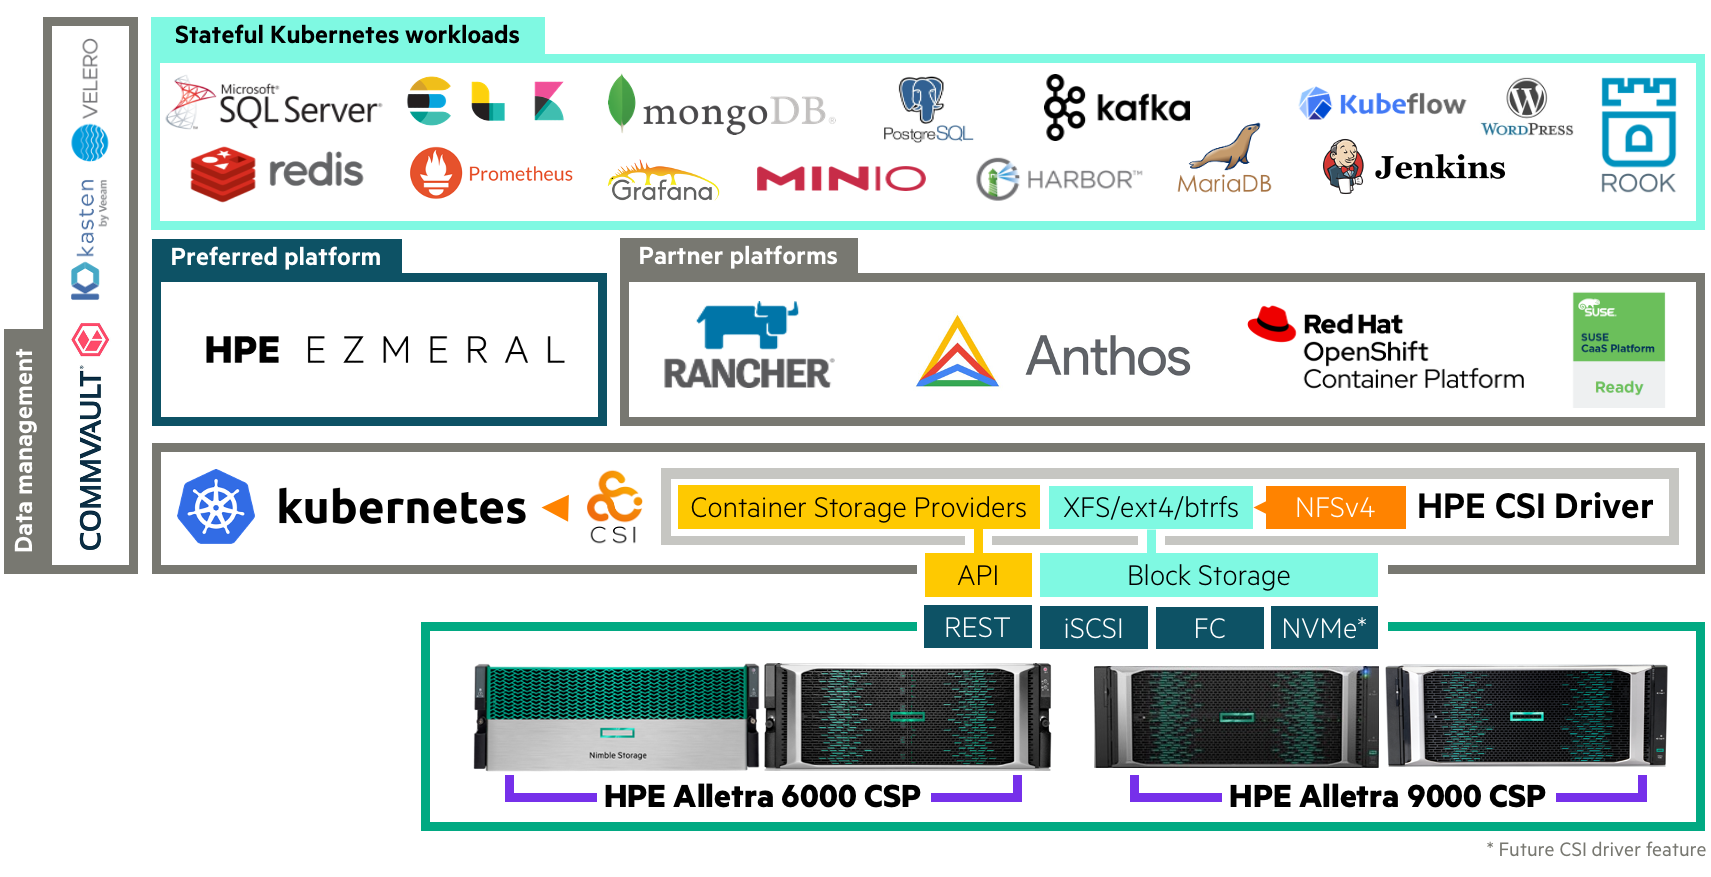
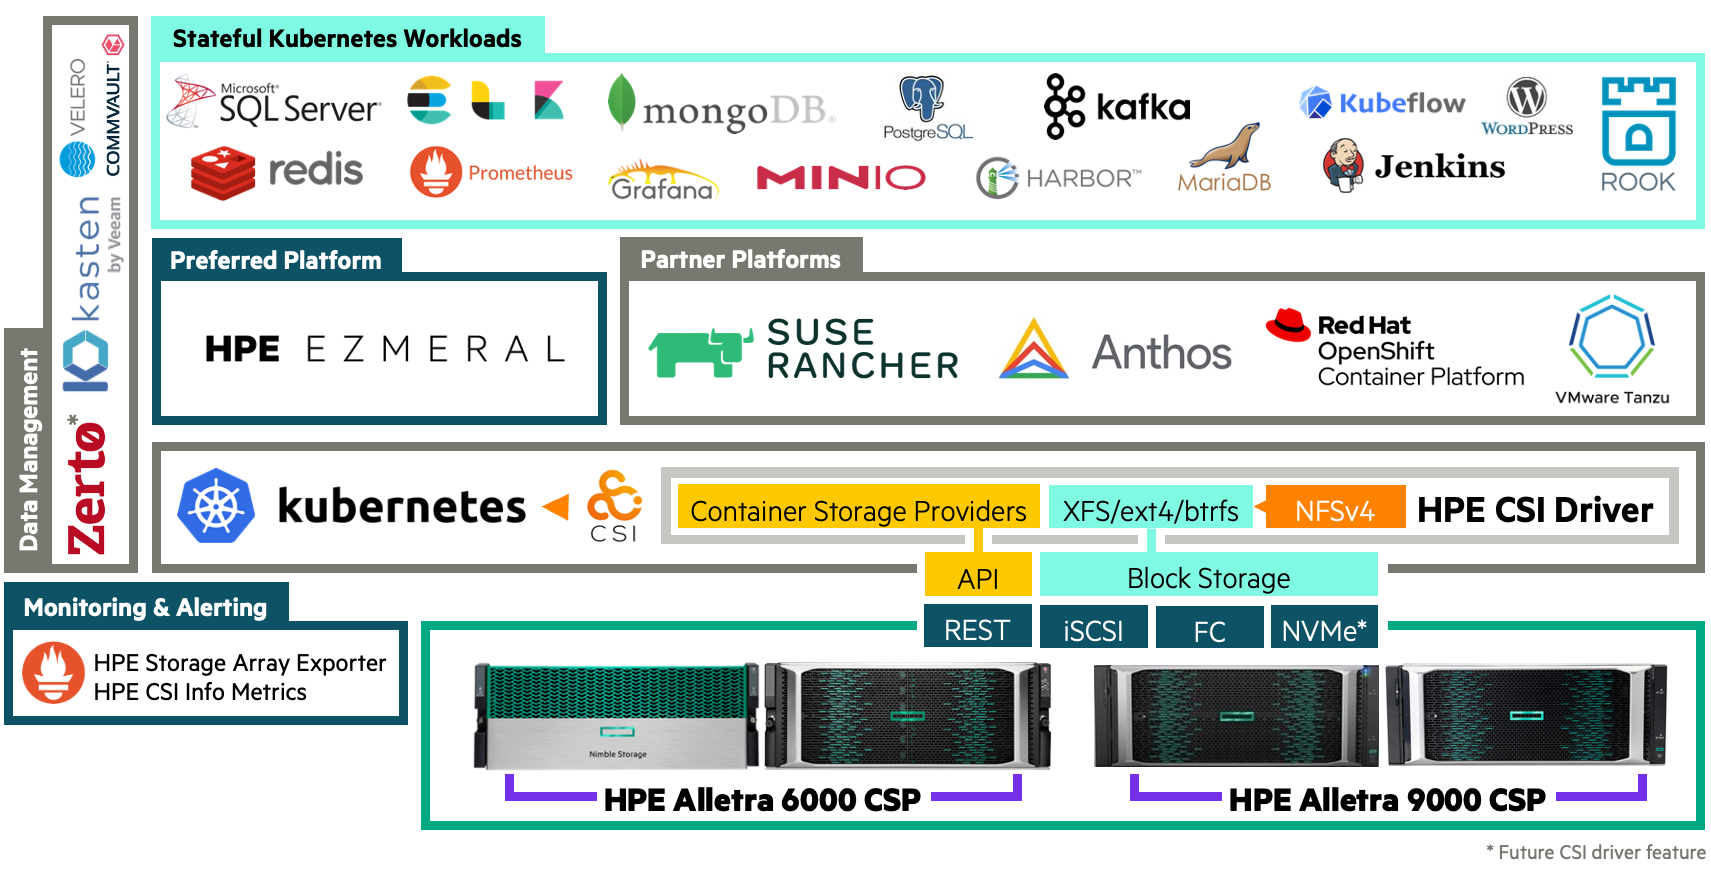
Minor updates

diff --git a/docs/csi_driver/using.md b/docs/csi_driver/using.md
@@ -30,7 +30,7 @@ The NFS Server Provisioner is not enabled by the default `StorageClass` and need
 
 ## Enabling CSI Snapshots
 
-Support for `VolumeSnapshotClasses` and `VolumeSnapshots` is available from Kubernetes 1.17+. The snapshot beta CRDs and the common snapshot controller needs to be installed manually. As per Kubernetes SIG Storage, these should not be installed as part of a CSI driver and should be deployed by the Kubernetes cluster vendor or user.
+Support for `VolumeSnapshotClasses` and `VolumeSnapshots` is available from Kubernetes 1.17+. The snapshot CRDs and the common snapshot controller needs to be installed manually. As per Kubernetes TAG Storage, these should not be installed as part of a CSI driver and should be deployed by the Kubernetes cluster vendor or user.
 
 Ensure the snapshot CRDs and common snapshot controller hasn't been installed already.
 
@@ -427,7 +427,26 @@ CSI introduces snapshots as native objects in Kubernetes that allows end-users t
 
 Start by creating a `VolumeSnapshotClass` referencing the `Secret` and defining additional snapshot parameters.
 
-Kubernetes 1.17+ (CSI snapshots in beta)
+Kubernetes 1.20+ (CSI snapshots GA)
+
+```markdown fct_label="HPE CSI Driver v2.0.0+"
+apiVersion: snapshot.storage.k8s.io/v1
+kind: VolumeSnapshotClass
+metadata:
+  name: hpe-snapshot
+  annotations:
+    snapshot.storage.kubernetes.io/is-default-class: "true"
+driver: csi.hpe.com
+deletionPolicy: Delete
+parameters:
+  description: "Snapshot created by the HPE CSI Driver"
+  csi.storage.k8s.io/snapshotter-secret-name: hpe-backend
+  csi.storage.k8s.io/snapshotter-secret-namespace: hpe-storage
+  csi.storage.k8s.io/snapshotter-list-secret-name: hpe-backend
+  csi.storage.k8s.io/snapshotter-list-secret-namespace: hpe-storage
+```
+
+Kubernetes 1.17-1.19 (CSI snapshots in beta)
 
 ```markdown fct_label="HPE CSI Driver v1.4.0"
 apiVersion: snapshot.storage.k8s.io/v1beta1
@@ -463,7 +482,17 @@ parameters:
 
 Create a `VolumeSnapshot`. This will create a new snapshot of the volume.
 
-```yaml
+```markdown fct_label="GA"
+apiVersion: snapshot.storage.k8s.io/v1beta1
+kind: VolumeSnapshot
+metadata:
+  name: my-snapshot
+spec:
+  source:
+    persistentVolumeClaimName: my-pvc
+```
+
+```markdown fct_label="beta"
 apiVersion: snapshot.storage.k8s.io/v1beta1
 kind: VolumeSnapshot
 metadata:
@@ -639,7 +668,7 @@ If no `VolumeSnapshots` are being enumerated, check the [diagnostics](diagnostic
 
 ### Expanding PVCs
 
-To perform expansion operations on Kubernetes 1.14+, you must enhance your `StorageClass` with some additional attributes. Please see [base `StorageClass` parameters](#base_storageclass_parameters).
+To perform expansion operations on Kubernetes 1.14+, you must enhance your `StorageClass` with the `.allowVolumeExpansion: true` key. Please see [base `StorageClass` parameters](#base_storageclass_parameters) for additional information.
 
 Then, a volume provisioned by a `StorageClass` with expansion attributes may have its `PersistentVolumeClaim` expanded by altering the `.spec.resources.requests.storage` key of the `PersistentVolumeClaim`.
 

diff --git a/docs/csi_driver/index.md b/docs/csi_driver/index.md
@@ -4,7 +4,7 @@ A Container Storage Interface ([CSI](https://github.com/container-storage-interf
 
 The CSI driver architecture allows a complete separation of concerns between upstream Kubernetes core, SIG Storage (CSI owners), CSI driver author (HPE) and the backend CSP developer.
 
-![HPE CSI Driver Architecture](img/csi_driver_architecture-2.0.0.png)
+![HPE CSI Driver Architecture](img/csi_driver_architecture-2.1.0.png)
 
 !!! tip
     The HPE CSI Driver for Kubernetes is vendor agnostic. Any entity may leverage the driver and provide their own Container Storage Provider.
@@ -29,13 +29,14 @@ Below is the official table for CSI features we track and deem readily available
 | Inline Ephemeral Volumes               | Beta              | 1.16              | 1.2.0          |
 | Volume Limits                          | GA                | 1.17              | 1.2.0          |
 | Volume Mutator<sup>1</sup>             | N/A               | 1.15              | 1.3.0          |
-| Generic Ephemeral Volumes              | Beta              | 1.21              | 1.3.0          |
+| Generic Ephemeral Volumes              | GA                | 1.23              | 1.3.0          |
 | Volume Groups<sup>1</sup>              | N/A               | 1.17              | 1.4.0          |
 | Snapshot Groups<sup>1</sup>            | N/A               | 1.17              | 1.4.0          |
 | NFS Server Provisioner<sup>1</sup>     | N/A               | 1.17              | 1.4.0          |
 | Volume Encryption<sup>1</sup>          | N/A               | 1.18              | 2.0.0          |
 | Topology                               | GA                | 1.17              | Future         |
 | Volume Health                          | Alpha             | 1.21              | Future         |
+| Volume Populator                       | Alpha             | 1.18              | Future         |
 
 <small>
  <sup>1</sup> = HPE CSI Driver for Kubernetes specific CSI sidecar. CSP support may vary.<br />
@@ -87,11 +88,11 @@ Release highlights:
       3PAR OS 3.3.2
     </td>
   </tr>
-  <!--
   <tr>
     <th>Release&nbsp;notes</th>
     <td><a href=https://github.com/hpe-storage/csi-driver/blob/master/release-notes/v2.1.1.md>v2.1.1</a> on GitHub</td>
   </tr>
+  <!--
   <tr>
    <th>Blogs</th>
    <td>

diff --git a/docs/container_storage_provider/hpe_alletra_6000/index.md b/docs/container_storage_provider/hpe_alletra_6000/index.md
@@ -37,9 +37,14 @@ In array OS 6.0.0 and newer it's possible to create separate tenants using the `
 
 No special configuration is needed on the Kubernetes cluster when using a tenant account or a regular user account. It's important to understand from a provisioning perspective that if the tenant account being used has been assigned multiple folders, the CSP will pick the folder with the most space available. If this is not desirable and a 1:1 `StorageClass` to Folder mapping is needed, the "folder" parameter needs to be called out in the `StorageClass`. 
 
-Some features may be limited and restricted in a multitenant deployment, such as arbitrarily import volumes in folders from the array the tenant isn't a user of.
-
 - Visit the array admin guide on [HPE InfoSight](https://infosight.hpe.com) to learn more about how to use the `tenantadmin` CLI.
+
+##### Tenant Limitations
+
+Some features may be limited and restricted in a multitenant deployment, such as arbitrarily import volumes in folders from the array the tenant isn't a user of, here are a few less obvious limitations.
+
+- CHAP is configured globally for the CSI driver. The CSI driver is contracted to create the CHAP user if it doesn't exist. It's important that the CHAP user does not exist prior when used with a tenant, as tenant may not share CHAP users among themselves or the admin account.
+- Both port 443 and 5392 needs to be exposed to the Kubernetes cluster in multitenant deployments.
 
 !!! seealso
     An in-depth tutorial on how to use multitenancy and the `tenantadmin` CLI is available on HPE DEV: [Multitenancy for Kubernetes clusters using HPE Alletra 6000 and Nimble Storage](https://developer.hpe.com/blog/multitenancy-for-kubernetes-clusters-using-hpe-alletra-6000-and-nimble-storage/).

diff --git a/docs/legal/support/index.md b/docs/legal/support/index.md
@@ -2,6 +2,10 @@
 
 Software components documented on SCOD are generally covered with valid support contract on the HPE product being used. Terms and conditions may be found in the support contract. Please reach out to your official HPE representative or HPE partner for any uncertainties.
 
+## CSI Info Metrics Provider support
+
+The HPE CSI Info Metrics Provider for Prometheus is supported by HPE when used with HPE storage arrays on valid support contracts. Send email to [support@nimblestorage.com](mailto:support@nimblestorage.com) to get started with any issue that requires assistance. Engage your HPE representative for other means to contact HPE Storage support directly.
+
 ## Container Storage Providers
 
 Each Container Storage Provider (CSP) uses their own official support routes to resolve any issues with the HPE CSI Driver for Kuberernetes and the respective CSP.
